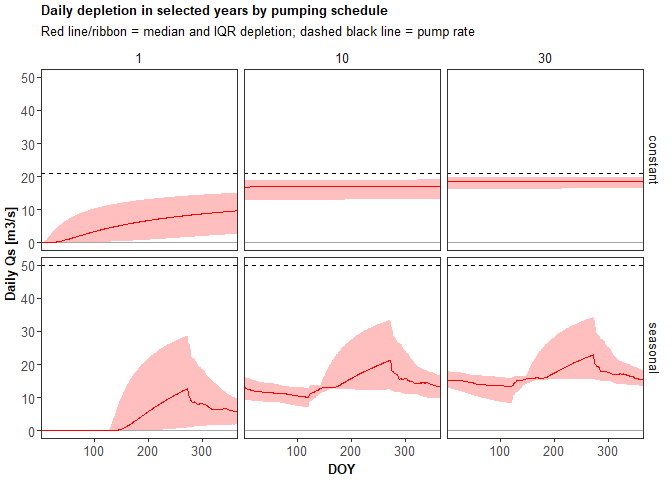
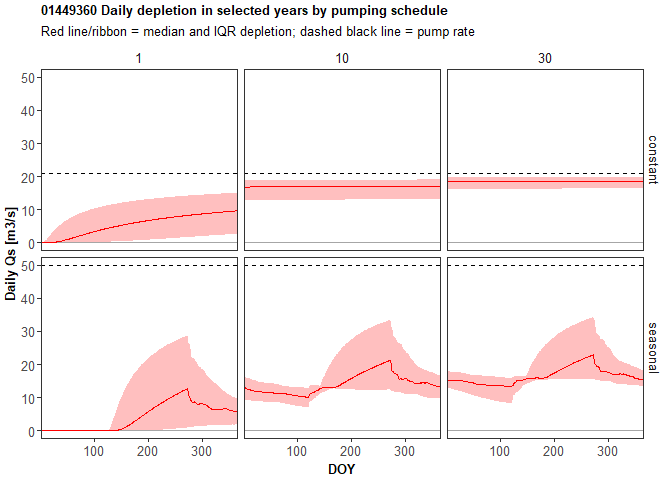
Update synthetic hydrograph analysis script for all gages

Changed region(s): [[0.0625, 0.0, 0.6875, 0.0312]]

diff --git a/Code/ApplyDepletion_SyntheticHydrographs.md b/Code/ApplyDepletion_SyntheticHydrographs.md
@@ -5,8 +5,8 @@ Apply calculated depletion to the synthetic hydrograph from a gage
 
 This script is intended to apply the fractional streamflow depletion
 (`Qf`) calculated in `CalculateDepletion.R` to long-term hydrologic data
-from a gage. Instead of picking ‘wet’ and ‘average’ years, the
-hydrograph is represented as the Q10 and Q50 for the gage.
+from a gage. Instead of picking ‘dry’, ‘average’, and ‘wet’ years, the
+hydrograph is represented as the Q10, Q50, and Q90 for the gage.
 
 # Set up workspace
 
@@ -193,7 +193,7 @@ ggplot(depletion_plot_years, aes(x = DOY)) +
   scale_x_continuous(name = "DOY", expand = c(0,0)) +
   scale_y_continuous(name = "Daily Qs [m3/s]") +
   facet_grid(pumping~Year) +
-  labs(title = "Daily depletion in selected years by pumping schedule",
+  labs(title = paste0(usgs_id, " Daily depletion in selected years by pumping schedule"),
        subtitle = "Red line/ribbon = median and IQR depletion; dashed black line = pump rate")
 ```
 
@@ -235,7 +235,7 @@ daily_depletion_plot %>%
   scale_y_continuous(name = "Daily Qs [m3/s]", trans = "log10") +
   facet_grid(pumping~Year) +
   labs(title = "Dry year discharge (black) and depletion (ribbon) for selected years and pumping schedules",
-       subtitle = "0.01 indicates 0-flow")
+       subtitle = paste0(usgs_id, "; 0.01 indicates 0-flow"))
 ```
 
 ![](ApplyDepletion_SyntheticHydrographs_files/figure-gfm/unnamed-chunk-5-1.png)<!-- -->
@@ -248,16 +248,20 @@ daily_depletion_plot %>%
   scale_y_continuous(name = "Daily Qs [m3/s]", trans = "log10") +
   facet_grid(pumping~Year) +
   labs(title = "Average year discharge (black) and depletion (ribbon) for selected years and pumping schedules",
-       subtitle = "0.01 indicates 0-flow")
+       subtitle = paste0(usgs_id, "; 0.01 indicates 0-flow"))
 ```
 
 ![](ApplyDepletion_SyntheticHydrographs_files/figure-gfm/unnamed-chunk-5-2.png)<!-- -->
 
-# Questions for Dana/John
+``` r
+daily_depletion_plot %>% 
+  ggplot(aes(x = DOY)) +
+  geom_ribbon(aes(ymin = Q_avg_subQs50, ymax = Q_avg), fill = "red", alpha = 0.5) +
+  geom_line(aes(y = Q_avg)) +
+  scale_y_continuous(name = "Daily Qs [m3/s]", trans = "log10") +
+  facet_grid(pumping~Year) +
+  labs(title = "Wet year discharge (black) and depletion (ribbon) for selected years and pumping schedules",
+       subtitle = paste0(usgs_id, "; 0.01 indicates 0-flow"))
+```
 
--   John: are discharge units cms?
--   Does it matter that synthetic hydrographs are so spiky (especially
-    Q90)? Should we run it through a smoothing filter (7-day rolling
-    mean or something)?
--   How are Q10, Q50, Q90 calculated - actual years of data, or fit an
-    ecdf and interpolate?
+![](ApplyDepletion_SyntheticHydrographs_files/figure-gfm/unnamed-chunk-5-3.png)<!-- -->
